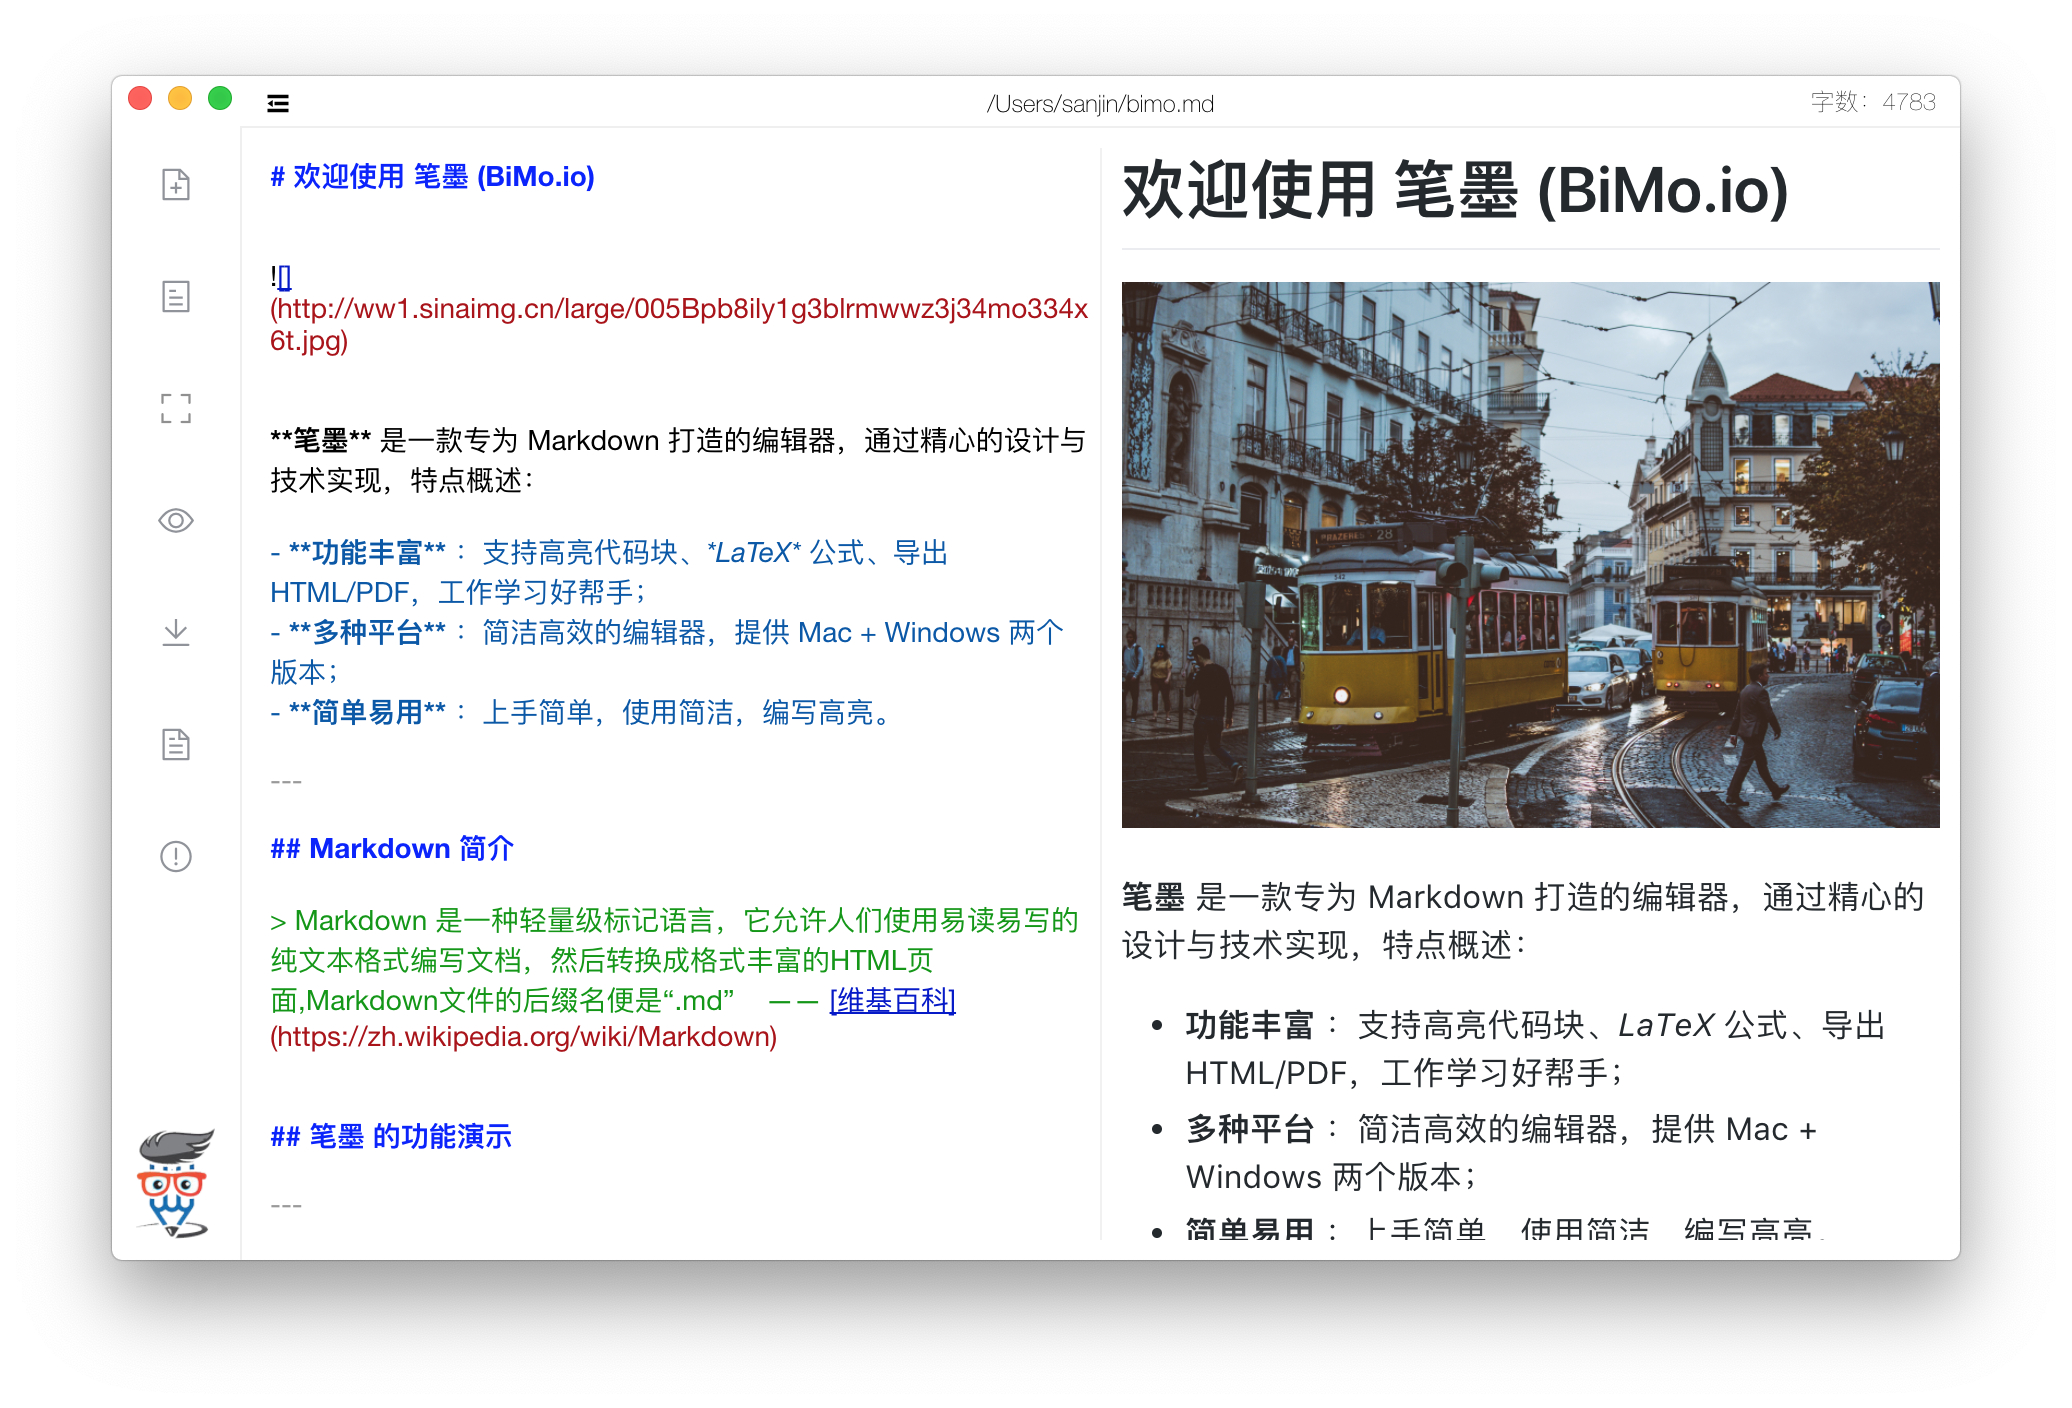
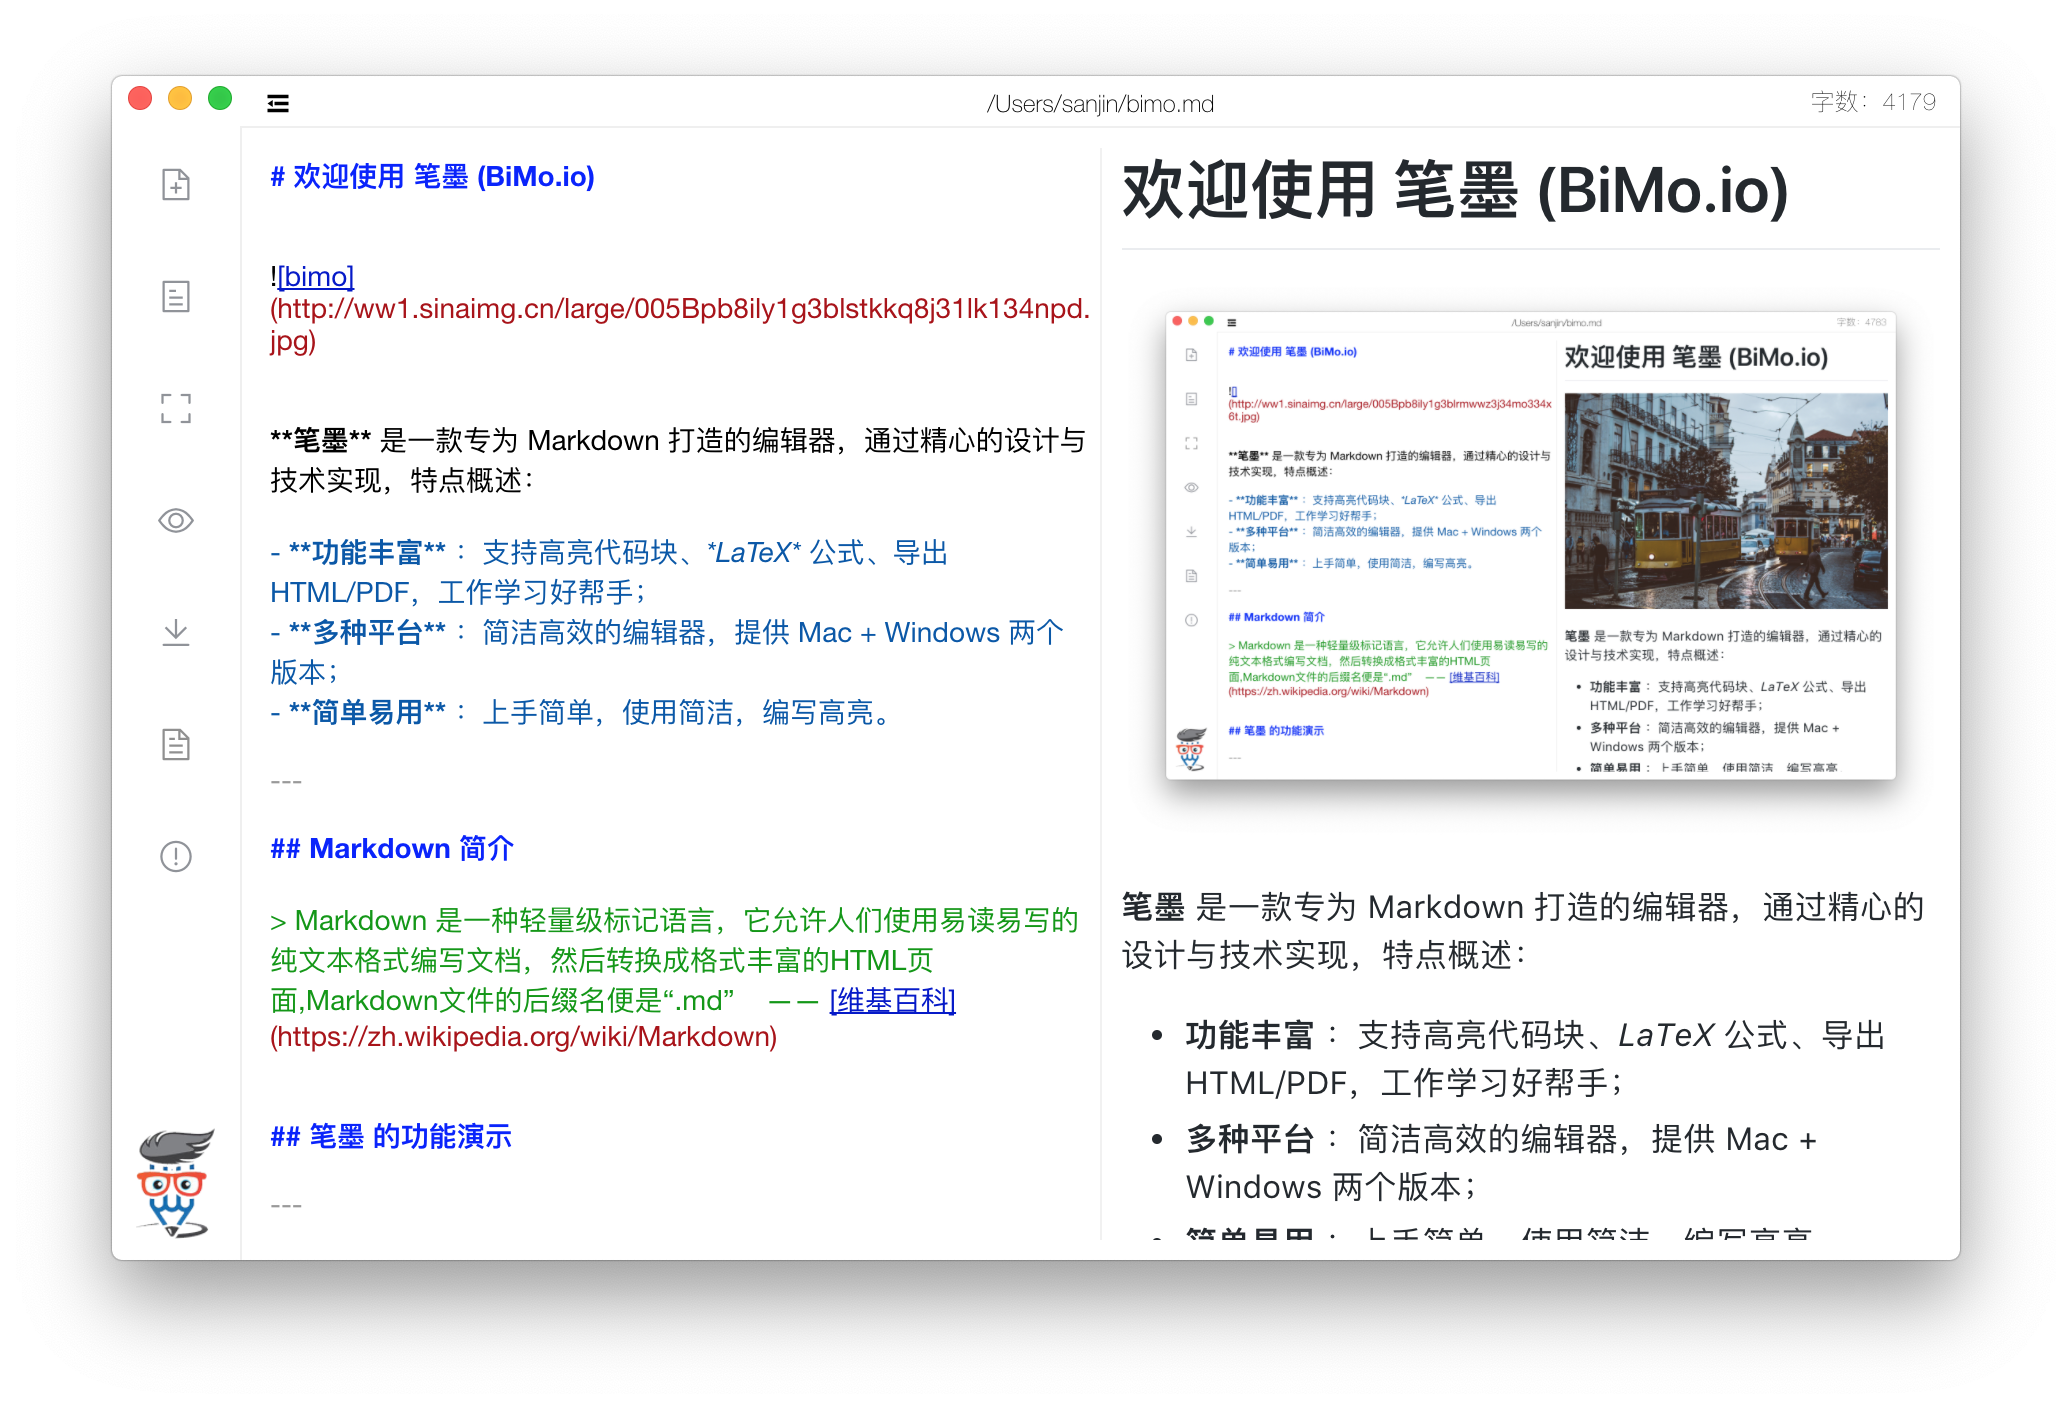
0.1

diff --git a/src/renderer/components/md.js b/src/renderer/components/md.js
@@ -1,12 +1,11 @@
-const mdText = `# 欢迎使用 笔墨 (BiMo.io)
+const mdText = `# 欢迎使用 笔墨 BiMo.io
 
 
-![bimo](http://ww1.sinaimg.cn/large/005Bpb8ily1g3blstkkq8j31lk134npd.jpg)
-
+![bimo](http://ww1.sinaimg.cn/large/005Bpb8ily1g3c5zx3mvfj31lk1341kx.jpg)
 
 **笔墨** 是一款专为 Markdown 打造的编辑器，通过精心的设计与技术实现，特点概述：
  
-- **功能丰富** ：支持高亮代码块、*LaTeX* 公式、导出HTML/PDF，工作学习好帮手；
+- **功能丰富** ：支持高亮代码块、导出HTML/PDF等，工作笔记好帮手；
 - **多种平台** ：简洁高效的编辑器，提供 Mac + Windows 两个版本；
 - **简单易用** ：上手简单，使用简洁，编写高亮。
 

diff --git a/src/renderer/pages/main.vue b/src/renderer/pages/main.vue
@@ -239,7 +239,6 @@ export default {
   },
   mounted() {
     this.markdown();
-    this.onScroll();
   },
   destroyed() {
     this.closeScroll();
@@ -359,6 +358,7 @@ export default {
 
       setTimeout(() => {
         this.onOpenLinkInit();
+        this.onScroll();
       }, 1000);
 
 

diff --git a/README.md b/README.md
@@ -4,7 +4,7 @@
 
 **笔墨** 是一款专为 Markdown 打造的编辑器，通过精心的设计与技术实现，特点概述：
  
-- **功能丰富** ：支持高亮代码块、*LaTeX* 公式、导出HTML/PDF，工作学习好帮手；
+- **功能丰富** ：支持高亮代码块、导出HTML/PDF，工作笔记好帮手；
 - **多种平台** ：简洁高效的编辑器，提供 Mac + Windows 两个版本；
 - **简单易用** ：上手简单，使用简洁，编写高亮。
 
@@ -46,6 +46,28 @@ yarn run build:darwin or linux or win32 or all
 图片 <kbd>Cmd + G</kbd>
 
 代码块 <kbd>Cmd + K</kbd>
+
+## TODO
+
+
+- [x] 打开文件
+- [x] 拖拽打开
+- [x] 保存文件
+- [x] 导出 HTML
+- [x] 导出 PDF
+- [x] 代码高亮
+- [x] 快捷键
+- [x] 滚动条同步滚动
+- [ ] 跨平台兼容
+- [ ] 支持 TOC
+- [ ] 支持 LaTeX 公式
+- [ ] 支持 流程图
+- [ ] 支持 时序图
+- [ ] 支持 本地图片上传
+- [ ] 所见即所得模式编辑
+- [ ] 一键生成静态博客
+- [ ] 自定义设置
+- [ ] 多种风格主题
 
 ## 反馈与建议
 
